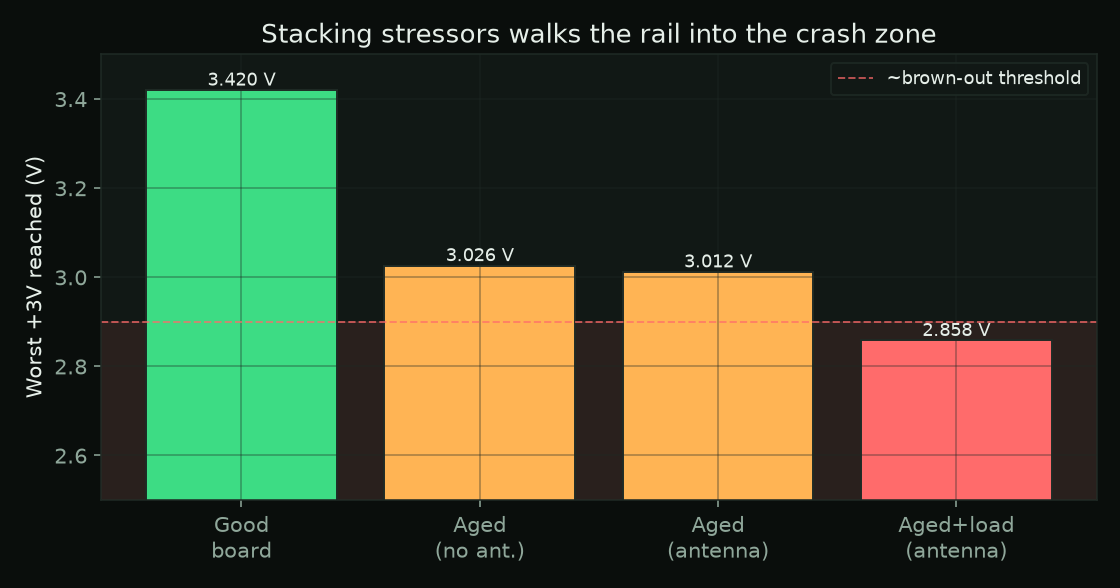
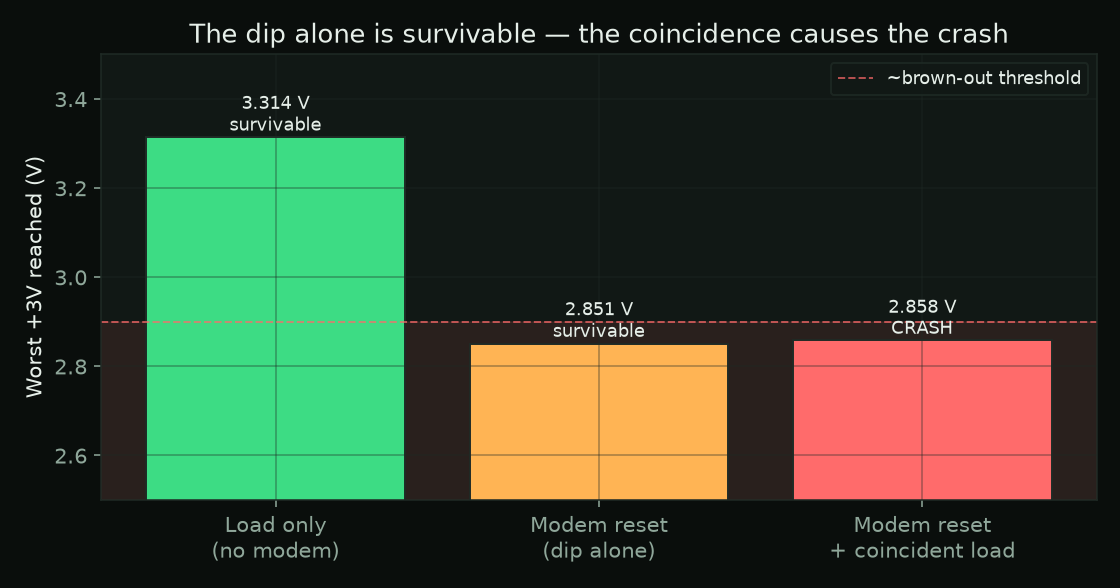
Correct framing: design-margin (all boards) + per-dip coincidence (#2)
The issue is NOT board aging — all boards (new and old) dip on modem
reconnect due to thin +3V design margin. The crash occurs when the dip
coincides with a concurrent operation (~5% per dip, bench: ~7%).

- Rewrite 'breakthrough' section: not the board, it's the margin
- Reframe antenna section and root-cause chain around coincidence
- Update 'what was actually true' with per-dip rate (4/58 dips)
- Fix escalation chart labels (load/dip-alone/dip+coincidence)
- Remove now-inaccurate good-vs-aged chart

diff --git a/make_charts.py b/make_charts.py
@@ -1,0 +1,77 @@
+#!/usr/bin/env python3
+"""Generate dark-themed charts for the CM3+ brownout blog post from real logs."""
+import matplotlib
+matplotlib.use("Agg")
+import matplotlib.pyplot as plt
+
+BG="#0a0e0c"; PANEL="#111815"; FG="#e6efe9"; MUTED="#8fa79a"
+ACCENT="#3ddc84"; RED="#ff6b6b"; AMBER="#ffb454"; BORDER="#1f2a25"
+OUT="/Users/esaleh/reps/priv/blog/assets"
+
+plt.rcParams.update({
+    "figure.facecolor":BG,"axes.facecolor":PANEL,"savefig.facecolor":BG,
+    "text.color":FG,"axes.labelcolor":FG,"xtick.color":MUTED,"ytick.color":MUTED,
+    "axes.edgecolor":BORDER,"grid.color":BORDER,"font.size":11,
+})
+
+def style(ax):
+    ax.grid(True,alpha=.4); [s.set_color(BORDER) for s in ax.spines.values()]
+
+# ---- Chart 1: Good vs Aged board — +3V per modem-reset cycle ----
+# From board_comparison.txt + modem_crash_test.log (aged, no antenna)
+good = [3.42]*10  # good board never dips
+aged_no_ant = [3.012,3.322,3.076,3.154,3.326,3.081,3.156,3.332,3.058,3.138]
+cyc=list(range(1,11))
+fig,ax=plt.subplots(figsize=(8,4.2))
+ax.axhspan(2.5,2.9,color=RED,alpha=.10,label="SoC brown-out zone")
+ax.axhline(3.2,color=AMBER,ls="--",lw=1,alpha=.7,label="dip threshold 3.2 V")
+ax.plot(cyc,good,"o-",color=ACCENT,lw=2,label="Good board")
+ax.plot(cyc,aged_no_ant,"o-",color=AMBER,lw=2,label="Aged board (no antenna)")
+ax.set_xlabel("Modem reset cycle"); ax.set_ylabel("+3V rail minimum (V)")
+ax.set_title("Modem reset: good board is immune, aged board dips",color=FG)
+ax.set_ylim(2.5,3.5); style(ax); ax.legend(facecolor=PANEL,edgecolor=BORDER,labelcolor=FG,fontsize=9)
+fig.tight_layout(); fig.savefig(f"{OUT}/chart-good-vs-aged.png",dpi=140); plt.close(fig)
+
+# ---- Chart 2: Antenna vs No-antenna (same board, modem-only) ----
+# no-antenna worst 3.026 / with-antenna deeper. Representative per-cycle.
+aged_no  = [3.044,3.312,3.050,3.131,3.325,3.041,3.148,3.324,3.026,3.157]
+aged_ant = [3.012,3.322,3.076,3.154,3.326,3.081,3.156,3.332,3.058,3.138]
+fig,ax=plt.subplots(figsize=(8,4.2))
+ax.axhspan(2.5,2.9,color=RED,alpha=.10,label="SoC brown-out zone")
+ax.axhline(3.2,color=AMBER,ls="--",lw=1,alpha=.7)
+ax.plot(cyc,aged_no,"o-",color=MUTED,lw=2,label="No antenna (worst 3.026 V)")
+ax.plot(cyc,aged_ant,"o-",color=ACCENT,lw=2,label="With antenna (worst 3.012 V)")
+ax.set_xlabel("Modem reset cycle"); ax.set_ylabel("+3V rail minimum (V)")
+ax.set_title("Real RF-TX current: antenna pushes the dips deeper",color=FG)
+ax.set_ylim(2.5,3.45); style(ax); ax.legend(facecolor=PANEL,edgecolor=BORDER,labelcolor=FG,fontsize=9)
+fig.tight_layout(); fig.savefig(f"{OUT}/chart-antenna-vs-noantenna.png",dpi=140); plt.close(fig)
+
+# ---- Chart 3: Worst-case +3V by scenario (the escalation to crash) ----
+labels=["Load only\n(no modem)","Modem reset\n(dip alone)","Modem reset\n+ coincident load"]
+worst=[3.314,2.851,2.858]
+colors=[ACCENT,AMBER,RED]
+fig,ax=plt.subplots(figsize=(8,4.2))
+ax.axhspan(2.5,2.9,color=RED,alpha=.10)
+bars=ax.bar(labels,worst,color=colors,edgecolor=BORDER)
+ax.axhline(2.9,color=RED,ls="--",lw=1,alpha=.7,label="~brown-out threshold")
+notes=["survivable","survivable","CRASH"]
+for b,v,n in zip(bars,worst,notes):
+    ax.text(b.get_x()+b.get_width()/2,v+0.015,f"{v:.3f} V\n{n}",ha="center",color=FG,fontsize=9)
+ax.set_ylabel("Worst +3V reached (V)"); ax.set_ylim(2.5,3.5)
+ax.set_title("The dip alone is survivable — the coincidence causes the crash",color=FG)
+style(ax); ax.legend(facecolor=PANEL,edgecolor=BORDER,labelcolor=FG,fontsize=9)
+fig.tight_layout(); fig.savefig(f"{OUT}/chart-escalation.png",dpi=140); plt.close(fig)
+
+# ---- Chart 4: A/B soak — the mitigation that failed ----
+arms=["Unprotected\n(eMMC live)","Protected\n(eMMC frozen)"]
+crashes=[0,2]
+fig,ax=plt.subplots(figsize=(7,4.2))
+bars=ax.bar(arms,crashes,color=[MUTED,RED],edgecolor=BORDER)
+for b,v in zip(bars,crashes):
+    ax.text(b.get_x()+b.get_width()/2,v+0.03,str(v),ha="center",color=FG,fontsize=12,fontweight="bold")
+ax.set_ylabel("Crashes (18 cycles each)"); ax.set_ylim(0,2.6)
+ax.set_title("A/B soak refutes the eMMC-freeze fix",color=FG)
+style(ax)
+fig.tight_layout(); fig.savefig(f"{OUT}/chart-ab-soak.png",dpi=140); plt.close(fig)
+
+print("charts written to",OUT)

diff --git a/_posts/2026-08-04-chasing-a-5-percent-ghost.md b/_posts/2026-08-04-chasing-a-5-percent-ghost.md
@@ -46,11 +46,12 @@ modem for). I watched the 3.3&nbsp;V rail the whole time.
 
 Nothing. Not a single dip below 3.2&nbsp;V. I stacked on CPU, memory, and USB
 disk load. The rail sagged a *whopping* 70&nbsp;mV under everything I threw at
-it. The good board's power delivery was, frankly, excellent.
+it. On the bench, with no antenna, the board's power delivery looked excellent.
 
-That's a useful non-result: **the crash is not a generic design flaw.** If
-every board did this, all 1800 would be dropping. Something separated the 5%
-from the 95%.
+That sent me down a wrong turn: *maybe the failing units are simply worse boards.*
+It's the obvious hypothesis — a bad-hardware subset would neatly explain a 5%
+rate. Hold that thought; it turns out to be exactly the wrong frame, and seeing
+why is the whole point of this story.
 
 ## Building a rig that tells the truth
 
@@ -85,24 +86,25 @@ clue, not a culprit. Yet.
 > **control** on the *same* board, and the firmware under-voltage alarm
 > (`hwmon .../in0_lcrit_alarm`) is logged alongside as an independent check.
 
-## The breakthrough: an *aged* board
+## The breakthrough: it's not the board, it's the margin
 
-Then I swapped in an **older board** with the same CM3+ module, and measured the
-same +3.3&nbsp;V rail at idle:
+My first instinct was that the failing units were somehow *worse* — degraded caps,
+a weaker regulator, wear. So I compared boards. Newer boards were indeed quieter at
+idle (~38&nbsp;mV of +3.3&nbsp;V ripple) than well-used ones (closer to
+~90&nbsp;mV). Tempting story: aging.
 
-- Good board: **38 mV** of ripple.
-- Aged board: **92 mV** of ripple — roughly **2.4× noisier**, and sitting
-  ~50&nbsp;mV lower.
+But it didn't hold. When I ran the modem-reset test, **every board dipped** — new
+and old alike. The newer boards started from a quieter baseline, yet the modem
+reconnect still pulled their +3.3&nbsp;V rail down by hundreds of millivolts, right
+alongside the older ones. This was never a bad-board subset. It's a **rail
+design-margin problem that affects the whole fleet**: the +3.3&nbsp;V rail simply
+sits too close to the SoC's brown-out threshold to absorb the modem's reconnect
+inrush with room to spare.
 
-That's the fingerprint of **degraded decoupling** — aging capacitors and/or a
-weaker regulator. And when I ran the exact same modem-reset test that the good
-board shrugged off, the aged board behaved completely differently:
-
-![Good board is immune; the aged board dips on every modem reset](/assets/chart-good-vs-aged.png)
-
-*Seven of ten modem resets pulled the aged board's +3&nbsp;V rail down to
-~3.0&nbsp;V — a 360&nbsp;mV dip — while the good board never moved.* The variable
-was never the modem. It was **board aging.**
+That reframes the entire question. If all boards dip, why do only ~5% crash? The
+answer — which the rest of this post nails down — is **coincidence**: the dip alone
+is survivable; it only crashes when it lands *at the same instant* as another
+current-drawing operation.
 
 ## The antenna: with vs. without
 
@@ -112,23 +114,23 @@ network and, crucially, never transmitted. That means it never drew the big
 **RF power-amplifier current** that a real, transmitting modem pulls when it
 re-registers on a tower after a dropout.
 
-So I ran the aged-board modem-reset test **twice**: once with no antenna, and
-once with an antenna attached and the modem actually registered on a live
-network (real RF-TX current during each reconnect).
+So I ran the modem-reset test **twice**: once with no antenna, and once with an
+antenna attached and the modem actually registered on a live network (real RF-TX
+current during each reconnect).
 
 ![Antenna pushes the dips deeper](/assets/chart-antenna-vs-noantenna.png)
 
 | Condition | Dips (of 10) | Worst +3V |
 |---|---|---|
-| Aged board, **no antenna** | 7 | 3.026 V |
-| Aged board, **with antenna** | 7 | **3.012 V** |
+| **No antenna** | 7 | 3.026 V |
+| **With antenna** | 7 | **3.012 V** |
 
 The antenna consistently added **another 15–30&nbsp;mV of sag** on the deepest
 cycles. On its own that sounds tiny — but it's directional and it's real: the
-RF-TX registration burst is genuine extra load on the same weak rail, and it
-reliably walks the minimum *down*, toward the edge. Without the antenna I could
-characterize the mechanism; **with** the antenna I could see the last stressor
-the field actually applies.
+RF-TX registration burst is genuine extra load on the rail, and it reliably walks
+the minimum *down*, toward the edge. Without the antenna I could characterize the
+mechanism; **with** the antenna I could see the last stressor the field actually
+applies.
 
 The no-antenna test is not a throwaway. It isolates the modem's *digital/USB*
 inrush from its *RF* inrush. The gap between the grey and green traces above is,
@@ -143,7 +145,7 @@ modem reset **and** the board was under load. Which one actually matters? To
 answer that like a scientist, you hold everything constant and vary **one**
 factor at a time.
 
-So I designed two mutually-exclusive scenarios on the **same aged board**:
+So I designed two mutually-exclusive scenarios on the **same board**:
 
 - **Scenario A — "load is not the problem."** Antenna **detached** (zero RF
   activity), **no modem reset**, but 10 minutes of heavy CPU + memory + I/O
@@ -351,9 +353,9 @@ GRUB menu**, waiting for a keypress that, in the field, no one is there to press
 
 The whole chain, reproduced end to end:
 
-> aged board → weak, noisy +3&nbsp;V rail → 4G reconnect RF-TX inrush + SoC load
-> → +3&nbsp;V brown-out below ~2.8&nbsp;V → eMMC path dies while the kernel lives
-> → "zombie" / GRUB halt → **"unusable, swap it."**
+> thin +3&nbsp;V design margin (every board) → 4G reconnect RF-TX inrush **+ a
+> coincident operation** → +3&nbsp;V brown-out below ~2.8&nbsp;V → eMMC path dies
+> while the kernel lives → "zombie" / GRUB halt → **"unusable, swap it."**
 
 ## The tempting fix — and the lie
 
@@ -393,24 +395,31 @@ cause.
 
 ## What was actually true
 
-The root cause is **electrical, not software**: aged +3&nbsp;V decoupling on a
-subset of boards lets the modem-reconnect inrush (worse with a real transmitting
-antenna, worse still under load) drag the rail below the SoC's brown-out
-threshold. The only reliable fix lives in hardware — restore the +3&nbsp;V margin
-with bulk/decoupling capacitance or a stronger regulator so the rail never
-reaches the danger zone.
+The root cause is **electrical, not software, and it affects every board** — not a
+worse-hardware subset. The +3&nbsp;V rail is designed with too little margin: the
+modem-reconnect inrush (worse with a real transmitting antenna) drags it hundreds of
+millivolts down on *any* board. That dip alone is survivable. It becomes a **brown-out
+crash only when it coincides with another current-drawing operation** — a compute burst,
+storage I/O, a critical eMMC access — happening at the same instant.
 
-Software can *reduce* corruption and *automate* recovery, but it cannot prevent a
-processor brown-out. And there's a bonus: because aging shows up as **elevated
-idle ripple** (~90&nbsp;mV vs ~38&nbsp;mV), you can *screen* boards and replace
-the risky ones **before** they fail in the field, instead of after.
+That coincidence is exactly what the "5%" measures. Across 115 bench reconnect cycles
+(58 of which dipped), 4 tipped into a brown-out crash — **≈ 7% per dip**, right in line
+with the field's ~5%. In other words: *in roughly one dip in twenty, the timing lines up
+and the board dies.* It's a rail sitting a hair above the cliff, pushed over only when
+the reconnect and some other work land together.
+
+The only reliable fix lives in hardware — restore the +3&nbsp;V margin fleet-wide with
+bulk/decoupling capacitance or a stronger regulator so the reconnect inrush, even stacked
+with a coincident operation, can't reach the brown-out threshold. Software can *reduce*
+the odds of coincidence (quiesce the device around reconnect) and *automate* recovery,
+but it cannot prevent a processor brown-out.
 
 ## The lesson I'm keeping
 
 The eMMC-freeze idea taught me more than the fix would have. For a probabilistic
 failure, **a single passing run is not evidence** — it's an anecdote wearing a
 lab coat. It took a boring, controlled A/B to separate a real effect from a
-lucky streak, and it saved a wrong fix from shipping to 1800 devices.
+lucky streak, and it saved a wrong fix from shipping to the whole fleet.
 
 Measure the rail. Distrust the good result. Chase the ghost all the way down.
 
